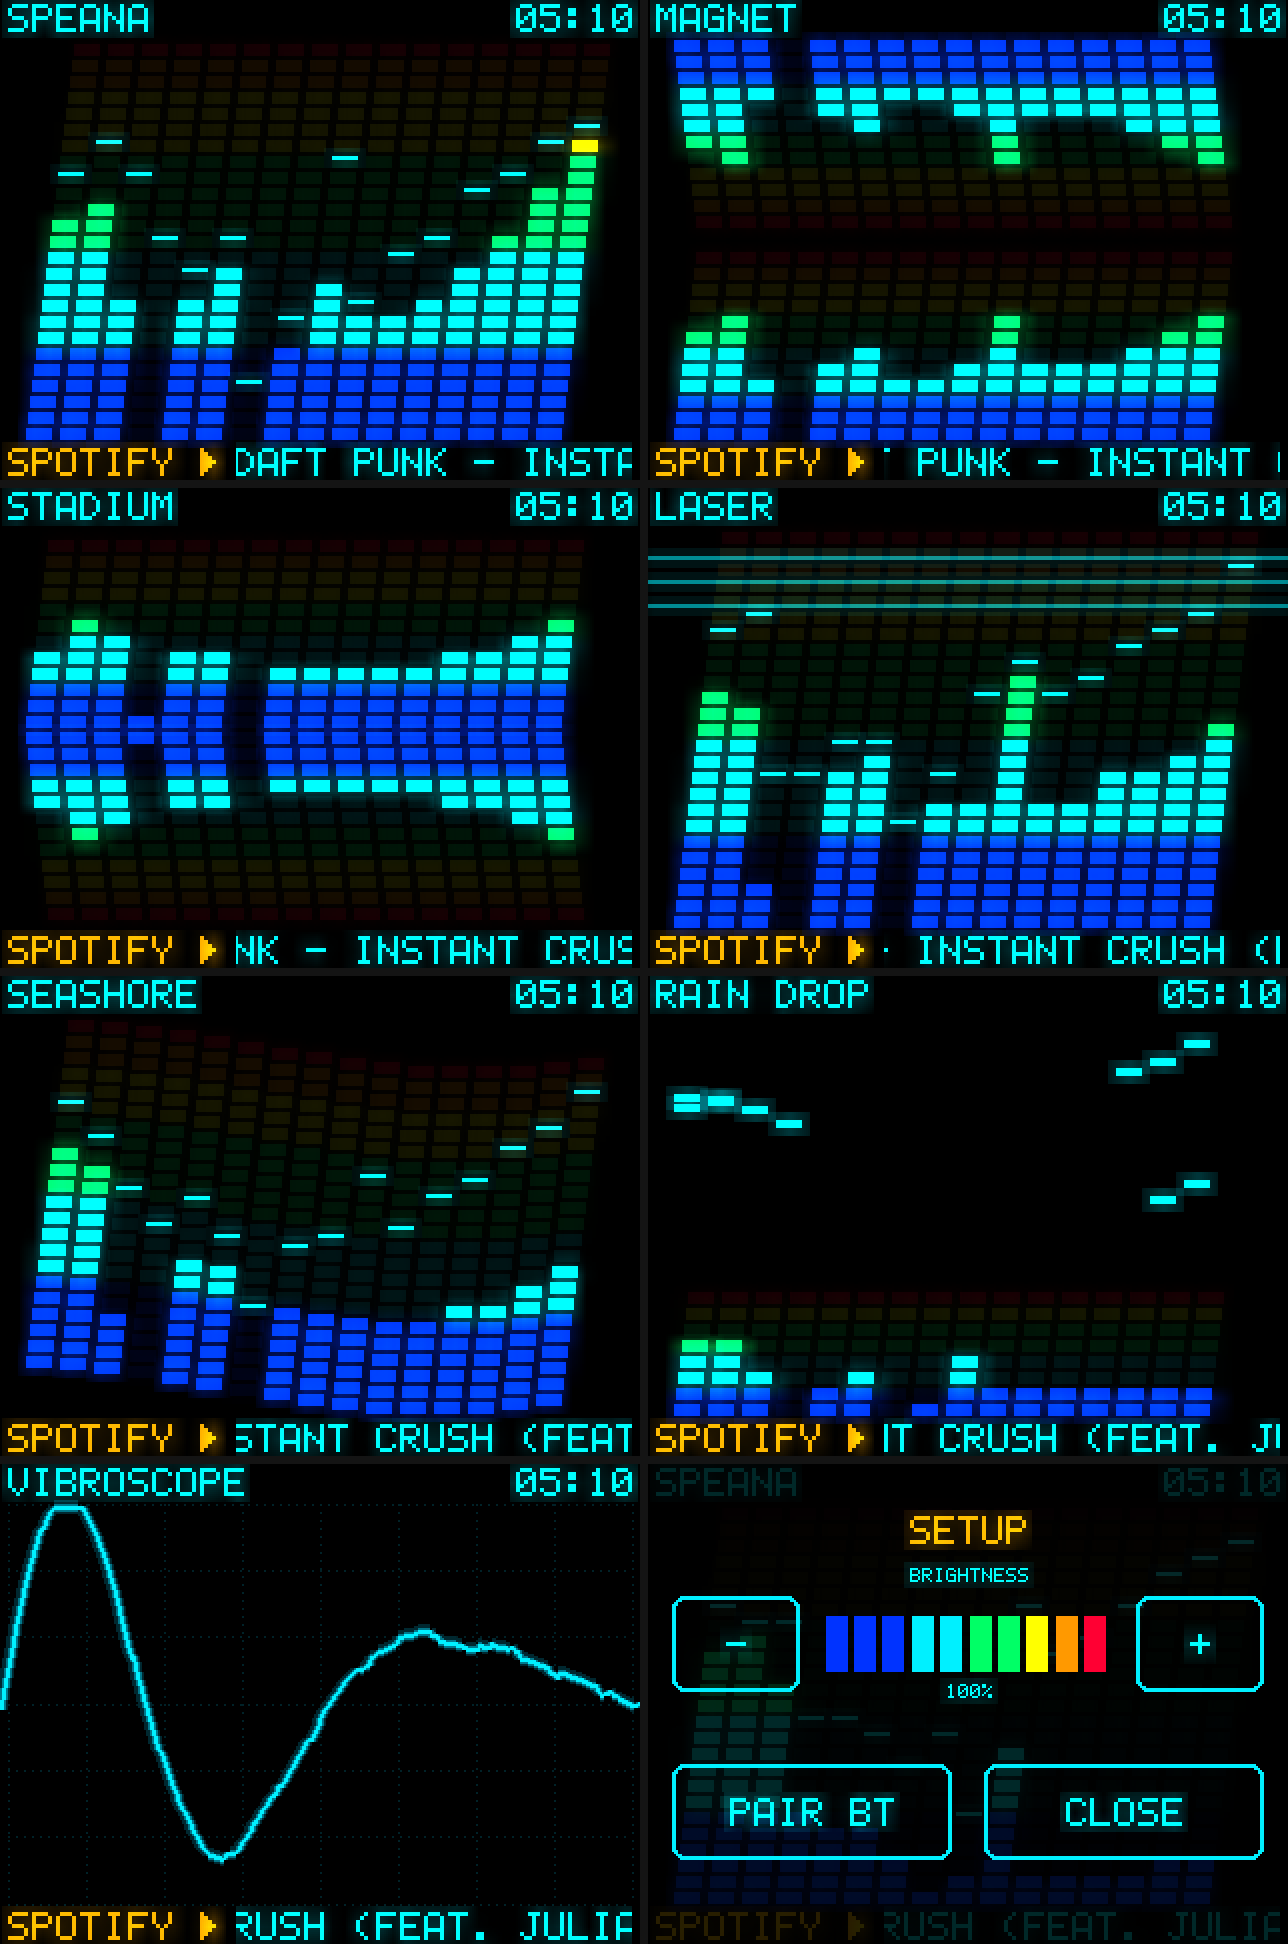
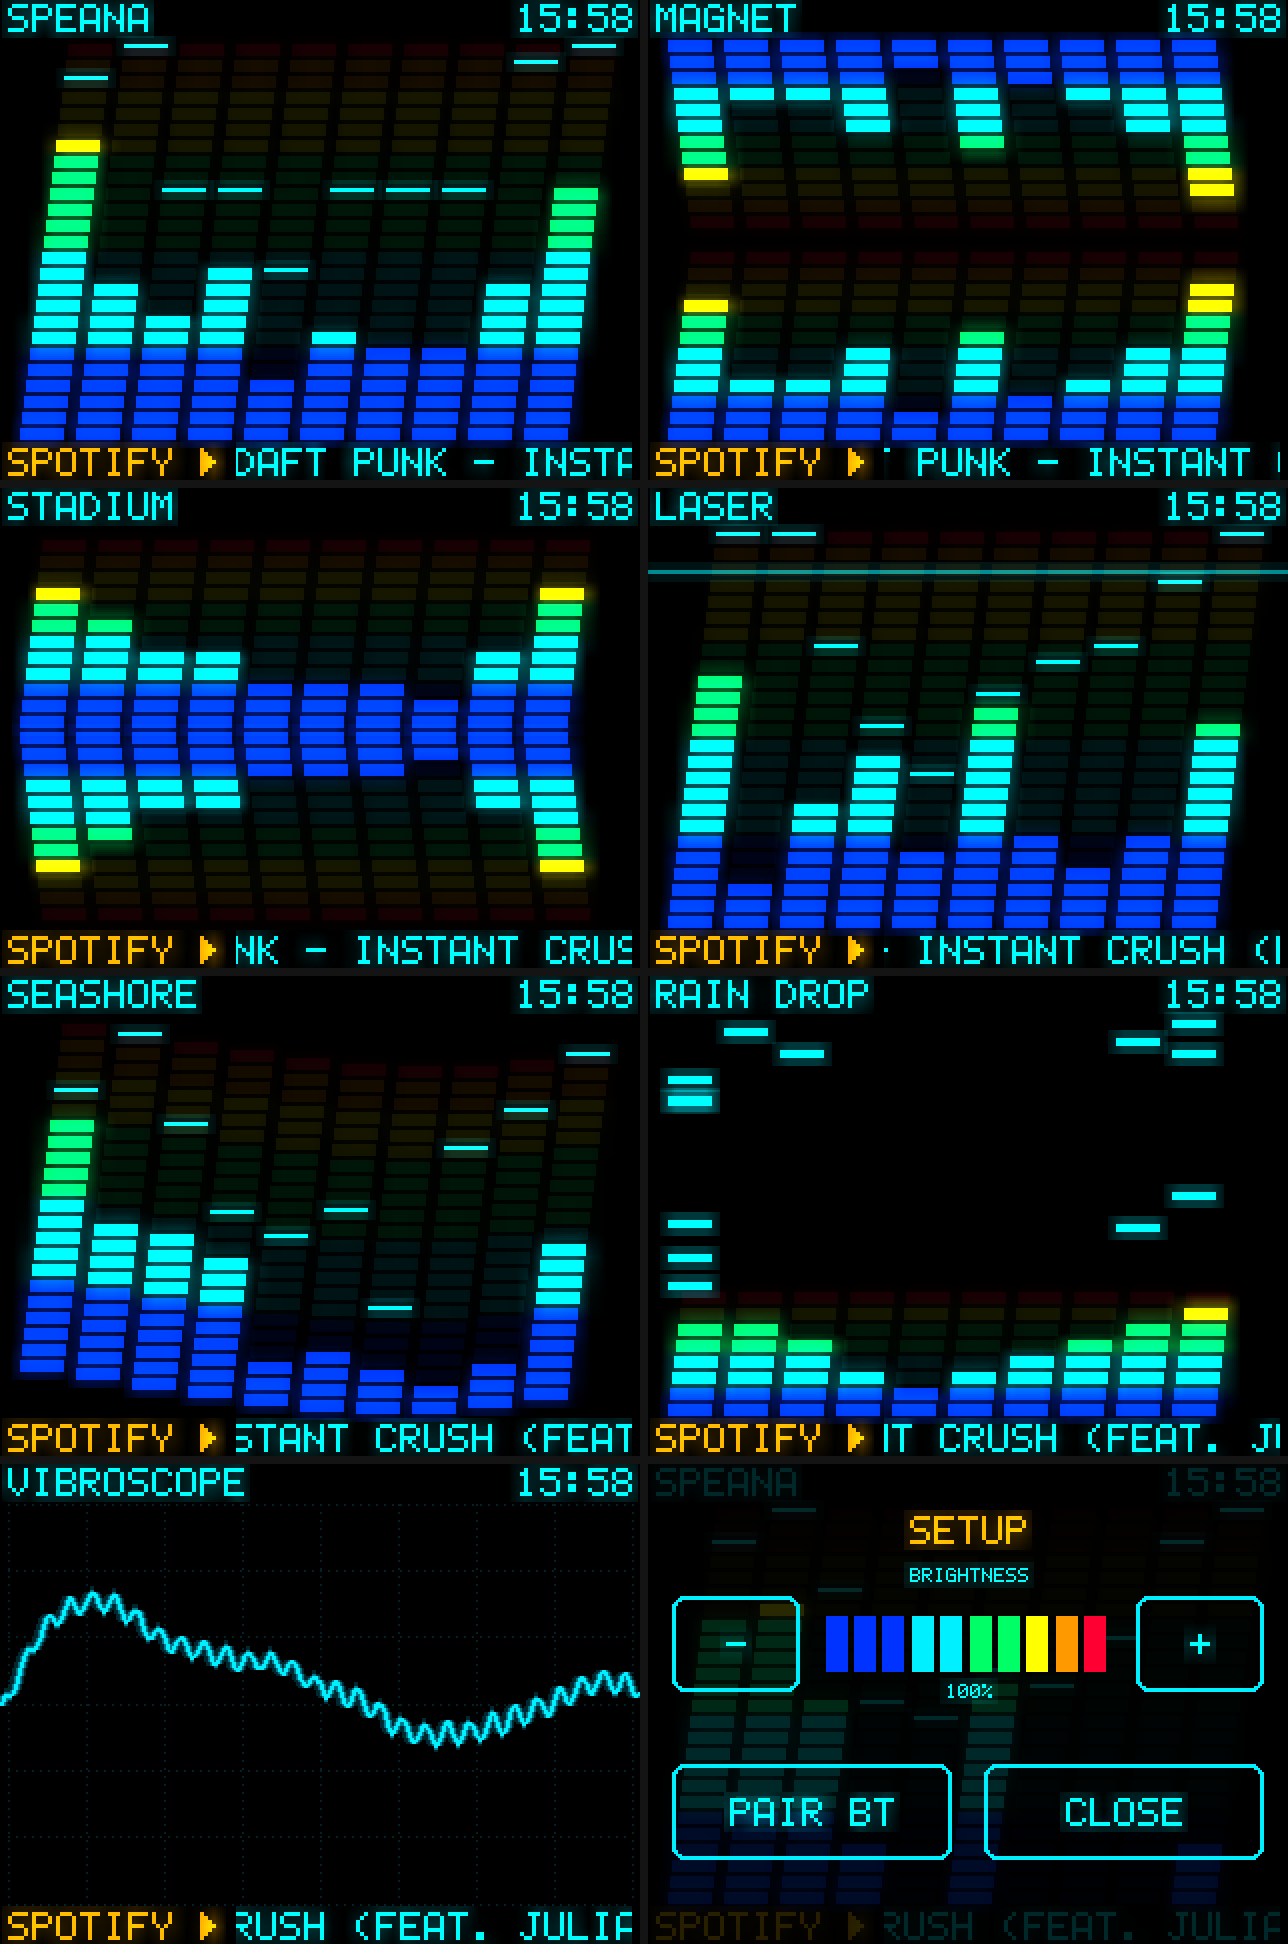
Chunkier bars, music-tracking ballistics, faster refresh
- 10 bands by default; bar width now scales with the band count
- instant attack + steady fall, slower auto-gain release and a gentle
  level curve so the bars follow beats instead of jittering
- less treble tilt, 45 Hz-14 kHz range
- 40 fps target, fbtft fps=60, periodic [perf] log line

Claude-Session: https://claude.ai/code/session_01NYZEXnFBcibWwSavEdQdWY

diff --git a/pi/kenwood_vis.py b/pi/kenwood_vis.py
@@ -42,13 +42,15 @@ CONFIG_PATH = "/etc/kenwood-vis.json"
 DEFAULTS = {
     "audio_device": "plughw:Loopback,1,0",   # capture side of the loopback
     "sample_rate": 44100,
-    "bands": 16,
-    "fmin": 40,
-    "fmax": 16000,
-    "treble_tilt_db_per_octave": 3.0,        # lifts the high bands (music is bass heavy)
-    "range_db": 42,                          # dB from top of bar to bottom of bar
+    "bands": 10,                             # number of bars (8-16 suit this screen)
+    "fmin": 45,
+    "fmax": 14000,
+    "treble_tilt_db_per_octave": 1.5,        # lifts the high bands (music is bass heavy)
+    "range_db": 36,                          # dB from top of bar to bottom of bar
+    "fall_speed": 2.2,                       # bar heights per second when the sound drops
     "silence_dbfs": -72,                     # below this the bars drop to zero
-    "fps": 30,
+    "fps": 40,
+    "perf_log": True,                        # print fps / render time to the journal every 30 s
     "framebuffer": "auto",                   # auto = the fb whose name contains ili9341
     "swap_red_blue": False,
     "rotate_180": False,
@@ -293,17 +295,21 @@ class Analyzer:
         cs = np.concatenate(([0.0], np.cumsum(spec)))
         db = 10 * np.log10(cs[self.hi] - cs[self.lo] + 1e-12) + self.tilt
         top = float(db.max())
+        # Auto-gain: catch loud parts quickly, but let go slowly (a few dB per
+        # second) so the bars follow the song's real dynamics instead of
+        # being re-normalised every frame (which looks random).
         if top > self.ref:
-            self.ref += (top - self.ref) * 0.6
+            self.ref += (top - self.ref) * 0.5
         else:
-            self.ref -= 6.0 * dt                     # release ~6 dB/s
+            self.ref -= 2.5 * dt
         if top > self.long_ref:
-            self.long_ref += (top - self.long_ref) * 0.05
+            self.long_ref += (top - self.long_ref) * 0.02
         else:
-            self.long_ref -= 0.4 * dt
-        self.ref = max(self.ref, self.long_ref - 14.0)
-        lvl = (db - (self.ref - self.range)) / self.range
-        return np.clip(lvl, 0.0, 1.0).astype(np.float32)
+            self.long_ref -= 0.3 * dt
+        self.ref = max(self.ref, self.long_ref - 9.0)
+        lvl = np.clip((db - (self.ref - self.range)) / self.range, 0.0, 1.0)
+        # gentle curve: background stays low, kicks and snares jump out
+        return (lvl ** 1.3).astype(np.float32)
 
 
 # ══════════════════════════════════════════════════════════════════════
@@ -675,10 +681,13 @@ class Visualizer:
         self.state = state
         self.nb = nbands
         self.text = Text()
-        self.bw = 13
-        self.bpitch = 17
+        # bar width follows the number of bands
+        avail = W - 8 - int(NSEG * SLANT)
+        self.bpitch = avail // nbands
+        self.bw = self.bpitch - max(3, round(self.bpitch * 0.22))
         total_w = nbands * self.bpitch - (self.bpitch - self.bw) + int(NSEG * SLANT)
         self.x0 = (W - total_w) // 2
+        self.fall = float(cfg.get("fall_speed", 2.2))
         self.cols = {}
         self.cur = np.zeros(nbands, np.float32)
         self.prev_lvl = np.zeros(nbands, np.float32)
@@ -754,10 +763,8 @@ class Visualizer:
 
     # ── per-frame update ──
     def update(self, lvl, dt):
-        rise = 1 - (1 - 0.6) ** (dt * 30)
-        fall = 1 - (1 - 0.28) ** (dt * 30)
-        k = np.where(lvl > self.cur, rise, fall)
-        self.cur += (lvl - self.cur) * k
+        # hardware-style ballistics: jump up instantly, fall at a steady speed
+        self.cur = np.maximum(lvl, self.cur - self.fall * dt)
         now = time.time()
         up = self.cur > self.peak
         self.peak[up] = self.cur[up]
@@ -808,7 +815,7 @@ class Visualizer:
             t = time.time()
             dst.set_clip(pygame.Rect(0, HUD_TOP + 1, W, BASE - HUD_TOP + 2))
             for i in range(nb):
-                base = int(BASE - 12 + math.sin(t / 0.4 + i / 4.0) * 12)
+                base = int(BASE - 12 + math.sin(t / 0.4 + i * 4.0 / nb) * 12)
                 self.draw_bar(dst, i, base, self.cur[i], NSEG - 3, True, self.peak[i])
             dst.set_clip(None)
         elif mode == "RAIN DROP":
@@ -1037,11 +1044,19 @@ class App:
             self.touch = Touch(self.cfg, self.pointer)
         clock = pygame.time.Clock()
         fps = int(self.cfg["fps"])
+        n_frames, work, t_log = 0, 0.0, time.time()
         while self.running:
             dt = min(0.1, clock.tick(fps) / 1000.0) or 1.0 / fps
+            t0 = time.perf_counter()
             self.handle_input()
             self.render(dt)
             self.present()
+            work += time.perf_counter() - t0
+            n_frames += 1
+            if self.cfg.get("perf_log") and time.time() - t_log >= 30:
+                el = time.time() - t_log
+                print(f"[perf] {n_frames / el:.1f} fps, {1000 * work / n_frames:.1f} ms per frame of work")
+                n_frames, work, t_log = 0, 0.0, time.time()
         if self.fb:
             self.fb.clear()
             self.backlight.set(0)
